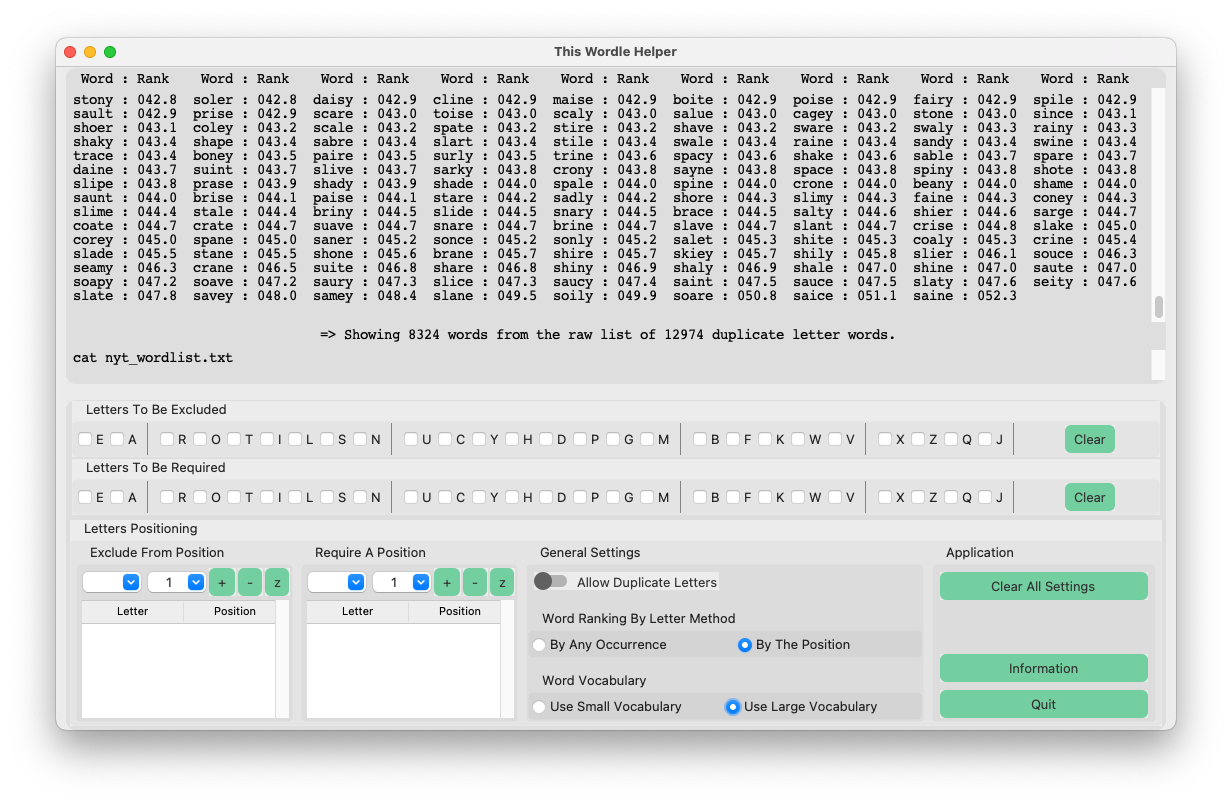
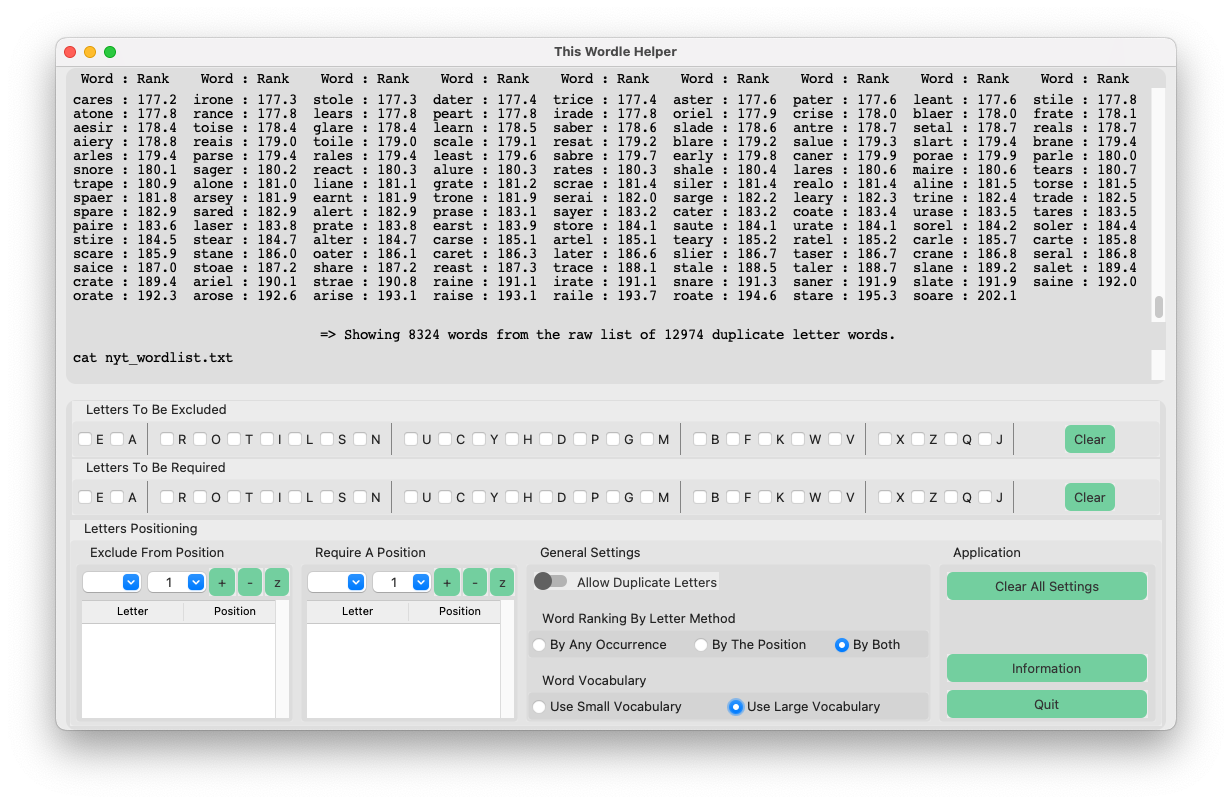
Added By Both ranking

diff --git a/pywt.py b/pywt.py
@@ -949,6 +949,8 @@ class Pywordlemainwindow(ctk.CTk):
         rbr1.pack(side=tk.LEFT, fill=tk.X, padx=0, pady=2, expand=True)
         rbr2 = ttk.Radiobutton(rank_frame, text="By The Position", variable=self.rank_mode, value=1, command=do_grep)
         rbr2.pack(side=tk.LEFT, fill=tk.X, padx=0, pady=2, expand=True)
+        rbr3 = ttk.Radiobutton(rank_frame, text="By Both", variable=self.rank_mode, value=2, command=do_grep)
+        rbr3.pack(side=tk.LEFT, fill=tk.X, padx=0, pady=2, expand=True)
 
         # Vocabulary selection frame
         vocab_frame = ttk.LabelFrame(self.actions_frame, text='Word Vocabulary', labelanchor='nw')

diff --git a/helpers.py b/helpers.py
@@ -91,7 +91,14 @@ def wrd_rank(wrd, ltr_rank_dict, method):
             r = r + ltr_rank_dict[x][p]
             p += 1
         return r
-
+    if method == 2:  # rank by position in the word
+        p = 1
+        for x in wrd:
+            # combine methods 0 and 1
+            r = r + ltr_rank_dict[x][0] + ltr_rank_dict[x][p]
+            p += 1
+        return r
+    return 0
 
 # Returns true if word has duplicate letters
 def wrd_has_duplicates(wrd):

diff --git a/README.md b/README.md
@@ -55,9 +55,9 @@ After installing python3 and pip, the following commands entered in a Terminal w
 
 !['PYWTRanking.png Image'](InfoImages/PYWTRanking.png)
 
-* The five-letter words are assigned a rank according to how common the letters are in the English wordle words list. Two different ranking methods are possible. Both methods sum a rank associated with each letter in the word. The above image, which can be shown by pressing **Letter Ranking** in the **Information** window, shows the ranks associated with each letter. This data is read from the **letter_ranks.txt** text file found in the **worddata** directory.
-* The **By Any Occurrence** method does not consider where letters occur in the word. The **RNK** column is the letter associated rank value. This value is how many times greater the letter is found **once** in a word compared to the least frequently occurring letter in the wordle words list. **By Any Occurrence** does not consider letter position.
+* The five-letter words are assigned a rank according to how common the letters are in the English wordle words list. Three different ranking methods are possible. Each method sums a rank associated with each letter in the word. The above image, which can be shown by pressing **Letter Ranking** in the **Information** window, shows the ranks associated with each letter. This data is read from the **letter_ranks.txt** text file found in the **worddata** directory.
+* The **By Any Occurrence** method does not consider where letters occur in the word. The **RNK** column is the letter associated rank value. This value is how many times greater the letter is found ***once*** in a word compared to the least frequently occurring letter in the wordle words list. **By Any Occurrence** does not consider letter position.
 * The **By The Position** method considers the letter's position. The **RNK-X** column is the letter associated rank value for the letter being in the X word's letter position. This value is the fraction of the letter's **RNK** that occurs when the letter is at the X position.
-* The **By Any Occurrence** rank and the **By The Position**
-rank are essentially two different scales. Each should not be compared to each other for any particular word.
+* The **By Both** method sums the **By Any Occurrence** and the **By The Position** methods. The method first biases the word rank according to by letter occurrence ranking. Then it up promotes the rank according to letter position rank.
+* These ranking method are essentially of different scales. Each should not be compared to each other for any particular word.
 * Word rank represents relative occurrence probability; however, any word matching the filter could be the wordle word regardless of its rank.
